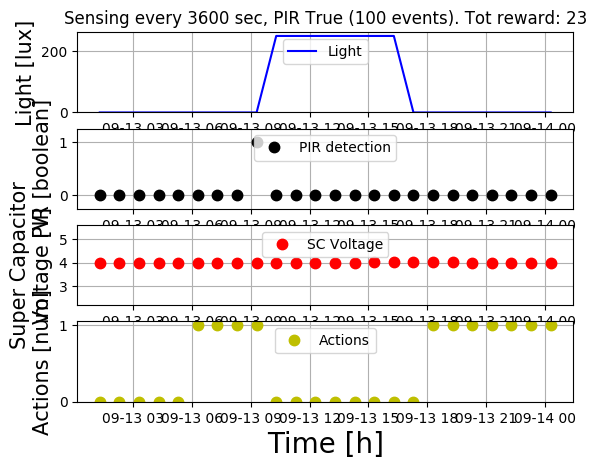
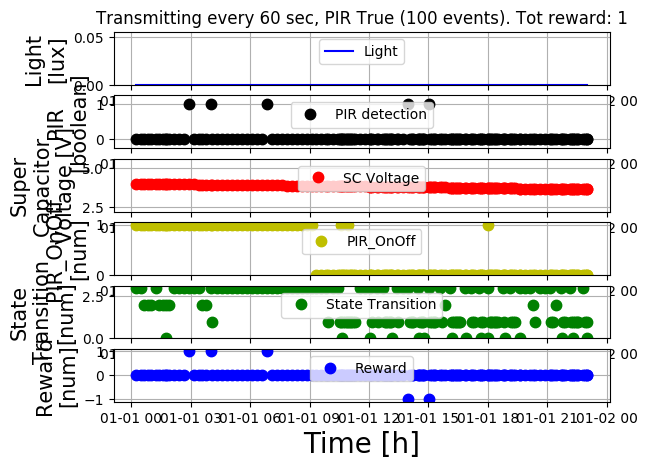
updates

Changed region(s): [[0.0, 0.0, 0.9966, 0.9851]]

diff --git a/training_pible.py b/training_pible.py
@@ -17,10 +17,11 @@ from ray.tune import grid_search
 
 from Pible_parameters import *
 import Pible_func
+import datetime
 
 tf = try_import_tf()
 
-t_gran = 60; steps = 1
+steps = 1
 
 n_input_steps = 1; n_input = 24
 
@@ -30,7 +31,9 @@ class SimplePible(gym.Env):
 
     def __init__(self, config={"corridor_length": 5}):
         self.end_pos = config["corridor_length"]
-        self.time = 0
+        #self.time = 0
+        self.time = datetime.datetime.strptime('01/01/17 00:00:00', '%m/%d/%y %H:%M:%S')
+        #self.end = self.time + datetime.timedelta(0, 24*60*60)
         #self.cur_pos = [0, -1, -2, -3, -4, -5, -6]
         #self.cur_pos = [x * t_gran for x in self.cur_pos]
         #self.cur_pos = []
@@ -38,26 +41,32 @@ class SimplePible(gym.Env):
         #    self.cur_pos.append(i)
         #self.cur_pos = np.array([self.cur_pos])
 
-        self.action_space = Discrete(2)
-        start = -24.0 #* t_gran
-        self.end = 23.0 #* t_gran
-
+        #self.action_space = Discrete(2)
         #self.observation_space = Box(
         #    start, self.end, shape=(n_input, ), dtype=np.float32)
+        self.action_space = spaces.Tuple((
+            spaces.Discrete(2),
+            spaces.Discrete(4),
+            #spaces.Box(1, 2, shape=(1, ), dtype=np.float32)
+        ))
+        #start = -24.0 #* t_gran
+        self.end = 23.0 #* t_gran
         self.observation_space = spaces.Tuple((
-            spaces.Box(start, self.end, shape=(n_input, ), dtype=np.float32),
-            spaces.Box(2.3, 5.5, shape=(1, ), dtype=np.float32)
+            spaces.Box(-24, self.end, shape=(n_input, ), dtype=np.float32),
+            spaces.Box(SC_volt_min, SC_volt_max, shape=(1, ), dtype=np.float32)
             #spaces.Discrete(24)
         ))
 
     def reset(self):
         #self.cur_pos = [0, -1, -2, -3, -4]
-        self.SC_Volt = []; self.SC_Norm = []; self.Reward = []; self.PIR_hist = []; self.Perf = []; self.Time = []; self.Light = []; self.Action = []
-        self.cur_pos = []
-        self.time = 0
-        self.events = Pible_func.events()
+        self.cur_pos = []; self.SC_Volt = []; self.SC_Norm = []; self.Reward = []; self.PIR_hist = []; self.Perf = []; self.Time = []; self.Light = []; self.PIR_OnOff = []; self.State_Trans = []
+        #self.time = 0
+        #self.time = datetime.datetime.strptime(Splitted[0], '%m/%d/%y %H:%M:%S')
+        self.time = datetime.datetime.strptime('01/01/17 00:00:00', '%m/%d/%y %H:%M:%S')
+        #self.end = self.time + datetime.timedelta(0, 24*60*60)
+
+        self.events = Pible_func.events() # Build events array
         self.SC_volt = np.array([SC_begin])
-        #self.cur_pos = np.array([])
 
         for i in range(0, -(n_input), -n_input_steps):
             self.cur_pos.append(i)
@@ -67,34 +76,48 @@ class SimplePible(gym.Env):
         return (self.cur_pos, self.SC_volt)
 
     def step(self, action):
-        assert action in [0, 1], action
-
-        next_wake_up_time = 1 # in min
-        self.time += 1 # in min
-        hour = int(self.time / t_gran)
-
-        if (self.time % t_gran) == 0:
-            self.cur_pos = [x+(1*steps) for x in self.cur_pos]
+        PIR_on_off = action[0]
+        #next_wake_up_time = action[1] # It is the state_trans in min
+        if action[1] == 0:
+            next_wake_up_time = 1
         else:
-            self.cur_pos = [x for x in self.cur_pos]
+            next_wake_up_time = action[1]*5
 
+        assert action[0] in [0, 1], action
+
+        #next_wake_up_time = 1 # in min
+        #self.time += 1 # in min
+        self.time = self.time + datetime.timedelta(0, 60*int(next_wake_up_time)) #next_wake_up_time # in min
+        self.time_next = self.time + datetime.timedelta(0, 60*int(next_wake_up_time)) #next_wake_up_time # in min
+        #hour = int(self.time / 60)
+        hour = self.time.hour
+
+        for i in range(0,len(self.cur_pos)):
+            self.cur_pos[i] = self.time.hour - i
+
+        #print(self.time, hour, self.end, self.cur_pos)
+        #if int(self.time % 60) == 0:
+        #    self.cur_pos = [x+(1*steps) for x in self.cur_pos]
+        #else:
+        #    self.cur_pos = [x for x in self.cur_pos]
+        #print(self.cur_pos)
         light = int(Pible_func.light_env(hour))
 
-        event, self.events = Pible_func.event_func(self.time, next_wake_up_time, self.events)
+        event, self.events = Pible_func.event_func(self.time, self.time_next, self.events)
 
-        self.SC_volt = Pible_func.Energy(self.SC_volt, light, action, next_wake_up_time, event)
+        self.SC_volt = Pible_func.Energy(self.SC_volt, light, PIR_on_off, next_wake_up_time, event)
 
-        reward = Pible_func.reward_func(action, event, self.SC_volt)
+        reward = Pible_func.reward_func(PIR_on_off, event, self.SC_volt)
 
         done = self.cur_pos[0] >= self.end
 
-        self.SC_Volt.append(self.SC_volt); self.Reward.append(reward); self.PIR_hist.append(event); self.Time.append(self.time); self.Light.append(light); self.Action.append(action);
+        self.SC_Volt.append(self.SC_volt); self.Reward.append(reward); self.PIR_hist.append(event); self.Time.append(self.time); self.Light.append(light); self.PIR_OnOff.append(action[0]); self.State_Trans.append(action[1]);
         #print((self.cur_pos, self.SC_volt))
         #self.SC_volt = np.array([SC_begin])
         return (self.cur_pos, self.SC_volt), reward, done, {}
 
     def render(self, episode, tot_rew):
-        Pible_func.plot_hist(self.Time, self.Light, self.Action, self.Reward, self.Perf, self.SC_Volt, self.SC_Norm, self.PIR_hist, episode, tot_rew)
+        Pible_func.plot_hist(self.Time, self.Light, self.PIR_OnOff, self.State_Trans, self.Reward, self.Perf, self.SC_Volt, self.SC_Norm, self.PIR_hist, episode, tot_rew)
 
 if __name__ == "__main__":
     # Can also register the env creator function explicitly with:
@@ -104,14 +127,14 @@ if __name__ == "__main__":
     tune.run(
         "PPO",
         stop={
-            "timesteps_total": 200000,
+            "timesteps_total": 1000000,
         },
         checkpoint_freq=10,
         config={
             "observation_filter": 'MeanStdFilter',
             "env": SimplePible,  # or "corridor" if registered above
-            "vf_share_layers": True,
-            "lr": grid_search([1e-2, 1e-3, 1e-4, 1e-5]),  # try different lrs
+            #"vf_share_layers": True,
+            "lr": grid_search([1e-3]),  # try different lrs
             "num_workers": 1,  # parallelism
             "env_config": {
                 "corridor_length": 5,

diff --git a/Pible_func.py b/Pible_func.py
@@ -1,5 +1,8 @@
 from Pible_parameters import *
 import numpy as np
+import matplotlib.dates as mdates
+import matplotlib.pyplot as plt
+import datetime
 
 def Energy(SC_volt, light, action, next_wake_up_time, event):
 
@@ -46,7 +49,7 @@ def Energy(SC_volt, light, action, next_wake_up_time, event):
 def event_func(t_min, next_wake_up_time, events): # check how many events are on this laps of time
         event = 0
         for check in events:
-            if t_min <= check and check <= t_min + next_wake_up_time:
+            if t_min <= check and check <= next_wake_up_time:
                 event += 1
                 events.remove(check)
         #print(t_min, check, next_wake_up_time)
@@ -67,48 +70,66 @@ def reward_func(action, event, SC_volt):
 def light_env(time):
     light = 0
     if time > 8 and time < 16:
-        light = 1500
+        light = 0
 
     return light
 
 def events():
-    events = [100, 200, 400, 456, 542] # in minutes
-    events.append(50)
-    events.append(30)
+    #self.time = datetime.datetime.strptime(Splitted[0], '%m/%d/%y %H:%M:%S')
+    events = [] # in minutes
+    events.append(datetime.datetime.strptime('01/01/17 03:05:00', '%m/%d/%y %H:%M:%S'))
+    events.append(datetime.datetime.strptime('01/01/17 04:10:00', '%m/%d/%y %H:%M:%S'))
+    events.append(datetime.datetime.strptime('01/01/17 07:05:00', '%m/%d/%y %H:%M:%S'))
+    events.append(datetime.datetime.strptime('01/01/17 14:05:00', '%m/%d/%y %H:%M:%S'))
+    events.append(datetime.datetime.strptime('01/01/17 15:05:00', '%m/%d/%y %H:%M:%S'))
     return events
 
 
-def plot_hist(Time, Light, Action, Reward, Perf, SC_Volt, SC_Norm, PIR, episode, tot_rew):
+def plot_hist(Time, Light, PIR_OnOff, State_Trans, Reward, Perf, SC_Volt, SC_Norm, PIR, episode, tot_rew):
 
     print("Total reward: ", tot_rew)
     #Start Plotting
     plt.figure(1)
-    plt.subplot(411)
-    plt.title(('Sensing every {0} sec, PIR {1} ({2} events). Tot reward: {3}').format(state_trans, using_PIR, PIR_events, tot_rew))
+    plt.subplot(611)
+    plt.title(('Transmitting every {0} sec, PIR {1} ({2} events). Tot reward: {3}').format('60', using_PIR, PIR_events, tot_rew))
     plt.plot(Time, Light, 'b-', label = 'Light', markersize = 10)
-    plt.ylabel('Light [lux]', fontsize=15)
+    plt.ylabel('Light\n[lux]', fontsize=15)
     plt.legend(loc=9, prop={'size': 10})
     plt.ylim(0)
     plt.grid(True)
-    plt.subplot(412)
+    plt.subplot(612)
     plt.plot(Time, PIR, 'k.', label = 'PIR detection', markersize = 15)
-    plt.ylabel('PIR [boolean]', fontsize=15)
+    plt.ylabel('PIR\n[boolean]', fontsize=15)
     plt.xlabel('Time [h]', fontsize=20)
     plt.legend(loc=9, prop={'size': 10})
     plt.ylim(-0.25, 1.25)
     plt.grid(True)
-    plt.subplot(413)
+    plt.subplot(613)
     plt.plot(Time, SC_Volt, 'r.', label = 'SC Voltage', markersize = 15)
-    plt.ylabel('Super Capacitor\nVoltage [V]', fontsize=15)
+    plt.ylabel('Super\nCapacitor\nVoltage [V]', fontsize=15)
     plt.legend(loc=9, prop={'size': 10})
     plt.ylim(2.2,5.6)
     plt.grid(True)
-    plt.subplot(414)
-    plt.plot(Time, Action, 'y.', label = 'Actions', markersize = 15)
-    plt.ylabel('Actions [num]', fontsize=15)
+    plt.subplot(614)
+    plt.plot(Time, PIR_OnOff, 'y.', label = 'PIR_OnOff', markersize = 15)
+    plt.ylabel('PIR_OnOff\n[num]', fontsize=15)
     plt.xlabel('Time [h]', fontsize=20)
     plt.legend(loc=9, prop={'size': 10})
     plt.ylim(0)
+    plt.grid(True)
+    plt.subplot(615)
+    plt.plot(Time, State_Trans, 'g.', label = 'State Transition', markersize = 15)
+    plt.ylabel('State\nTransition\n[num]', fontsize=15)
+    plt.xlabel('Time [h]', fontsize=20)
+    plt.legend(loc=9, prop={'size': 10})
+    plt.ylim(0)
+    plt.grid(True)
+    plt.subplot(616)
+    plt.plot(Time, Reward, 'b.', label = 'Reward', markersize = 15)
+    plt.ylabel('Reward\n[num]', fontsize=15)
+    plt.xlabel('Time [h]', fontsize=20)
+    plt.legend(loc=9, prop={'size': 10})
+    #plt.ylim(0)
     plt.grid(True)
     plt.savefig('Graph.png', bbox_inches='tight')
     plt.show()

diff --git a/print_results.py b/print_results.py
@@ -9,6 +9,7 @@ from gym_envs.envs import Pible_env
 from time import sleep
 import os
 import datetime
+import numpy as np
 #import arrow
 
 #path_data = subprocess.getoutput('eval echo "~$USER"') + "/Desktop/Ray-RLlib-Pible/gym_envs/envs"
@@ -69,7 +70,7 @@ for i in spl:
             iteration = i
 
 print("\nFound folder: ", folder, "Last checkpoint found: ", iteration, '\n')
-sleep(3)
+sleep(1)
 
 if True:
     path = glob.glob(subprocess.getoutput('eval echo "~$USER"') + '/ray_results/' + Agnt +'/' + folder  +
@@ -89,26 +90,33 @@ if True:
     }, env=SimplePible)
     print(path[0])
     agent.restore(path[0])
-    exit()
+    '''
     config = {
                 "path": path_data,
             }
     Env = Pible_env.PibleEnv(config)
     SC_volt = Env.reset()
-    print(SC_volt)
-
+    '''
+    config = {
+            "path": path_data,
+            "corridor_length": 5,
+        }
+    Env = SimplePible(config)
+    obs = Env.reset()
+    pre_action = [np.array(0), np.array(0)]
+    #print(SC_volt)
     tot_rew = 0
     while True:
-
         learned_action = agent.compute_action(
 	    #observation = [SC_volt[0], SC_volt[1]],
-            observation = SC_volt,
+            observation = obs,
             prev_action = pre_action,
-            prev_reward = pre_reward
+            #prev_reward = pre_reward
         )
         #learned_action = 0
-        SC_volt, reward, done, none = Env.step(learned_action)
-        print(SC_volt)
+        #print(learned_action)
+        obs, reward, done, none = Env.step(learned_action)
+        print(reward)
         tot_rew += reward
         pre_reward = reward
         pre_action = learned_action

diff --git a/Pible_parameters.py b/Pible_parameters.py
@@ -6,7 +6,6 @@ using_PIR = True # PIR active and used to detect people
 PIR_events = 100 # Number of PIR events detected during a day. This could happen also when light is not on
 using_Accelerometer = False # Activate only if using Accelerometer
 
-
 # DO NOT MODIFY! POWER CONSUMPTION PARAMETERS! Change them only if you change components.
 SC_volt_min = 2.3; SC_volt_max = 5.5; SC_size = 1.5; SC_volt_die = 3.0
 
